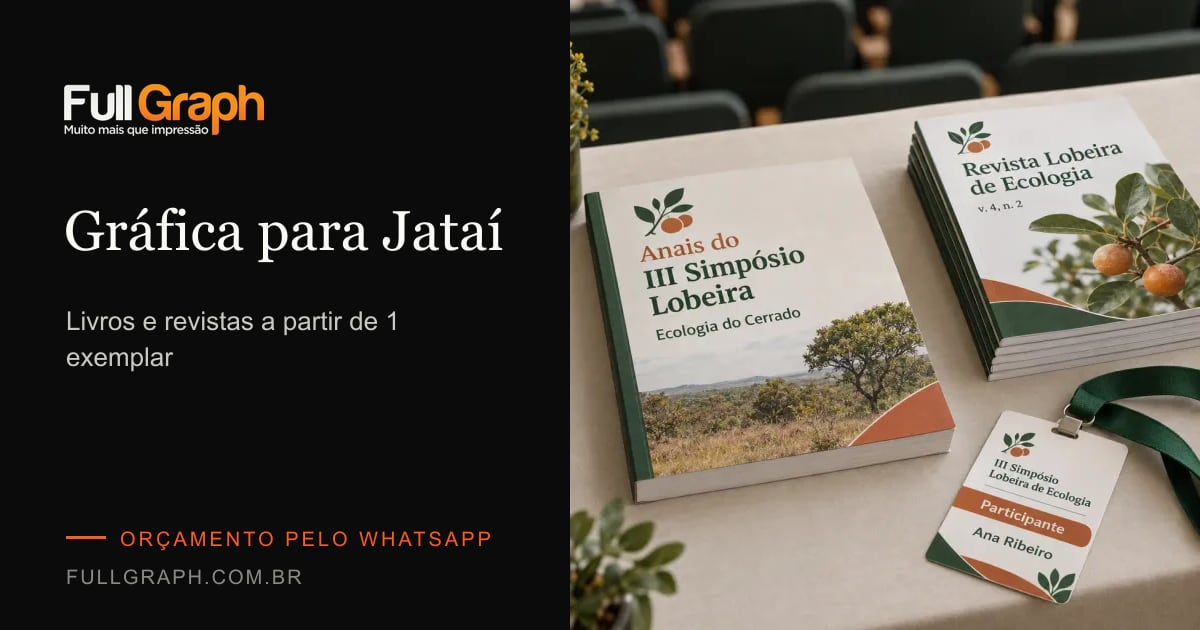
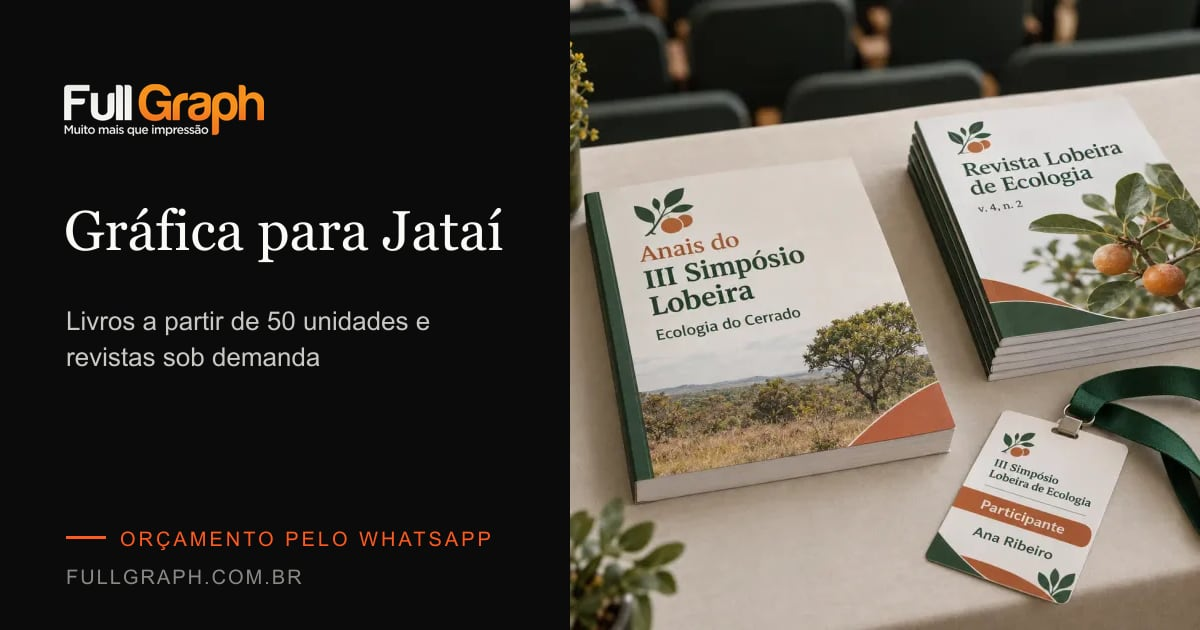
fix: pedido mínimo de livros é 50 unidades
Fato confirmado pelo dono em 10/11/2026 (antes o site dizia
"livros a partir de 1 exemplar"). Revistas seguem a partir de 1
exemplar (N1).

- página de impressão de livros: título, meta, tiragem e FAQ
- Jataí, Itumbiara e Livros/Editorial; llms.txt; imagens OG
- orçamento: faixa "50 a 100" para livros e aviso do mínimo

Changed region(s): [[0.0617, 0.4825, 0.3392, 0.6032]]

diff --git a/src/data/product-content/impressao-de-livros.ts b/src/data/product-content/impressao-de-livros.ts
@@ -6,12 +6,12 @@ import type { ProductContent } from "@/types";
  * aprovação. Fonte única para a UI e para o JSON-LD (FAQPage).
  */
 export const impressaoDeLivrosContent: ProductContent = {
-  metaTitle: "Impressão de livros a partir de 1 exemplar, capa dura e brochura | FullGraph",
+  metaTitle: "Impressão de livros a partir de 50 unidades, capa dura e brochura | FullGraph",
   metaDescription:
     "Impressão de livros sob demanda ou em grandes tiragens: formatos livres, papel pólen, offset ou couché, capa dura, cola PUR e acabamentos especiais. Envio para todo o Brasil.",
-  h1: "Impressão de livros com acabamento editorial, a partir de 1 exemplar",
+  h1: "Impressão de livros com acabamento editorial, a partir de 50 unidades",
   intro: [
-    "A FullGraph faz impressão de livros sob demanda ou em grandes tiragens, com produção própria em Brasília e envio para todo o Brasil. Do exemplar único para o lançamento do autor independente à edição completa de uma editora, cada livro passa pela mesma linha: pré-impressão, impressão, encadernação e acabamento sob o mesmo controle.",
+    "A FullGraph faz impressão de livros sob demanda, a partir de 50 unidades, ou em grandes tiragens, com produção própria em Brasília e envio para todo o Brasil. Do lançamento do autor independente à edição completa de uma editora, cada livro passa pela mesma linha: pré-impressão, impressão, encadernação e acabamento sob o mesmo controle.",
     "Você escolhe formato, papel, encadernação e acabamento de capa. A gente confere o arquivo, envia a prova para aprovação e só então imprime.",
   ],
   introCta: "Pedir orçamento pelo WhatsApp",
@@ -113,7 +113,7 @@ export const impressaoDeLivrosContent: ProductContent = {
       heading: "Sob demanda e grandes tiragens",
       blocks: [
         {
-          p: "Na impressão de livros sob demanda, você imprime a partir de 1 exemplar: serve para prova de autor, lançamento, presente ou reposição de estoque sem encalhe. Em grandes tiragens, a produção mantém o mesmo padrão de cor do primeiro ao último exemplar, no prazo combinado.",
+          p: "Na impressão de livros sob demanda, o pedido mínimo é de 50 unidades: serve para lançamento, edição para um evento ou reposição de estoque. Em grandes tiragens, a produção mantém o mesmo padrão de cor do primeiro ao último exemplar, no prazo combinado.",
         },
       ],
     },
@@ -204,8 +204,8 @@ export const impressaoDeLivrosContent: ProductContent = {
         "Depende do formato, do número de páginas, do papel, das cores, da encadernação, do acabamento e da quantidade. Por isso cada livro recebe orçamento próprio. Solicite pelo WhatsApp ou pelo formulário.",
     },
     {
-      question: "Vocês imprimem só 1 exemplar?",
-      answer: "Sim. A impressão de livros sob demanda começa em 1 exemplar.",
+      question: "Qual é a quantidade mínima para impressão de livros?",
+      answer: "O pedido mínimo para impressão de livros é de 50 unidades.",
     },
     {
       question: "Vocês fazem livro de capa dura?",

diff --git a/src/data/landing-content/grafica-jatai.ts b/src/data/landing-content/grafica-jatai.ts
@@ -9,7 +9,7 @@ import type { PageContent } from "@/types";
 export const graficaJataiContent: PageContent = {
   metaTitle: "Gráfica Jataí (GO): livros, revistas e anais | FullGraph",
   metaDescription:
-    "Gráfica que atende Jataí (GO): livros a partir de 1 exemplar, revistas, anais e materiais de congresso. Entrega em até 1 dia útil após pronto.",
+    "Gráfica que atende Jataí (GO): livros a partir de 50 unidades, revistas, anais e materiais de congresso. Entrega em até 1 dia útil após pronto.",
   h1: "Gráfica para Jataí: livros, revistas e materiais para congressos",
   intro: [
     "Um livro de autor, a próxima edição de uma revista, o material de um simpósio. Para quem pesquisa gráfica Jataí com um desses trabalhos na mão, a FullGraph imprime em Brasília e a encomenda chega à cidade até 1 dia útil depois de pronta.",
@@ -18,7 +18,7 @@ export const graficaJataiContent: PageContent = {
   introCta: "Pedir orçamento para Jataí pelo WhatsApp",
   sections: [
     {
-      heading: "Uma gráfica em Jataí que imprime a partir de 1 exemplar: como funciona?",
+      heading: "Uma gráfica para Jataí com livros a partir de 50 unidades: como funciona?",
       blocks: [
         {
           p: "Ninguém precisa fechar tiragem grande para começar. Quatro regras valem para todo pedido:",
@@ -26,8 +26,8 @@ export const graficaJataiContent: PageContent = {
         {
           ul: [
             [
-              { strong: "Tiragem a partir de 1 exemplar." },
-              " Vale para livros e para revistas.",
+              { strong: "Livros a partir de 50 unidades." },
+              " Revistas a partir de 1 exemplar.",
             ],
             [
               { strong: "Um só lugar de produção." },
@@ -46,7 +46,7 @@ export const graficaJataiContent: PageContent = {
       ],
     },
     {
-      heading: "Livros e revistas a partir de 1 exemplar",
+      heading: "Livros a partir de 50 unidades e revistas a partir de 1 exemplar",
       blocks: [
         {
           p: [
@@ -156,9 +156,9 @@ export const graficaJataiContent: PageContent = {
         "Cada material tem seu prazo de produção, que vem no orçamento; uma revista costuma levar 5 dias úteis. Depois, a entrega em Jataí leva no máximo 1 dia útil.",
     },
     {
-      question: "Dá para imprimir um livro só?",
+      question: "Qual é a quantidade mínima para imprimir livros e revistas?",
       answer:
-        "Sim. Livros e revistas saem a partir de 1 exemplar.",
+        "Livros saem a partir de 50 unidades. Revistas saem a partir de 1 exemplar.",
     },
     {
       question: "Como fica a próxima edição da revista?",

diff --git a/src/components/forms/QuoteWizard.tsx b/src/components/forms/QuoteWizard.tsx
@@ -12,7 +12,7 @@ import {
   segments,
   quoteProducts,
   formatsByProduct,
-  quantities,
+  quantitiesForProduct,
   pageCounts,
   colorOptions,
   materials,
@@ -46,7 +46,12 @@ function buildSteps(produto: string): StepDef[] {
       hint: "Se ainda não sabe, escolha o mais próximo — ajustamos no orçamento.",
       fields: ["formato", "formatoCustom"],
     },
-    { id: "quantidade", title: "Quantas unidades?", fields: ["quantidade"] },
+    {
+      id: "quantidade",
+      title: "Quantas unidades?",
+      hint: produto === "livro" ? "O pedido mínimo para livros é de 50 unidades." : undefined,
+      fields: ["quantidade"],
+    },
   ];
   if (PAGED_PRODUCTS.has(produto))
     steps.push({ id: "paginas", title: "Quantas páginas?", fields: ["paginas"] });
@@ -324,7 +329,7 @@ export function QuoteWizard() {
                       </>
                     )}
                     {step.id === "quantidade" && (
-                      <OptionCards name="quantidade" options={quantities} register={register} error={err("quantidade")} columns={3} />
+                      <OptionCards name="quantidade" options={quantitiesForProduct(values.produto)} register={register} error={err("quantidade")} columns={3} />
                     )}
                     {step.id === "paginas" && (
                       <OptionCards name="paginas" options={pageCounts} register={register} error={err("paginas")} />
@@ -579,7 +584,7 @@ export function QuoteWizard() {
           <p className="sr-only" aria-live="polite">
             {[
               values.produto && optionText(quoteProducts, values.produto),
-              values.quantidade && optionText(quantities, values.quantidade),
+              values.quantidade && optionText(quantitiesForProduct(values.produto), values.quantidade),
               values.material && optionText(materials, values.material),
               values.prazo && optionText(deadlines, values.prazo),
             ]

diff --git a/src/data/landing-content/livros-editorial.ts b/src/data/landing-content/livros-editorial.ts
@@ -125,7 +125,7 @@ export const livrosEditorialContent: PageContent = {
             [{ strong: "Editoras:" }, " lançamentos, reimpressões e reposição de estoque."],
             [
               { strong: "Autores independentes:" },
-              " o livro com acabamento de editora, a partir de 1 exemplar.",
+              " o livro com acabamento de editora, a partir de 50 unidades.",
             ],
             [
               { strong: "Escolas e faculdades:" },
@@ -148,10 +148,10 @@ export const livrosEditorialContent: PageContent = {
       ],
     },
     {
-      heading: "Tiragem: do exemplar único à edição completa",
+      heading: "Tiragem de livros: de 50 unidades à edição completa",
       blocks: [
         {
-          p: "Livros podem ser impressos sob demanda a partir de 1 exemplar. Serve para prova de autor, lançamento, reposição sem encalhe ou edição para um evento. Catálogos também saem em qualquer quantidade.",
+          p: "Livros podem ser impressos sob demanda a partir de 50 unidades. Serve para lançamento, reposição de estoque ou edição para um evento. Catálogos também saem em qualquer quantidade.",
         },
         {
           p: "Nas tiragens maiores, a produção mantém o mesmo padrão de cor do primeiro ao último exemplar. O processo de impressão, offset ou digital, é definido no orçamento, junto com o prazo.",

diff --git a/tests/quote.spec.ts b/tests/quote.spec.ts
@@ -28,7 +28,9 @@ test("fluxo completo do orçamento até o envio", async ({ page }) => {
   await next(page);
 
   // 4. Quantidade
-  await pickOption(page, /500 a 1\.000/);
+  await expect(page.getByRole("radio", { name: "Até 100", exact: true })).toHaveCount(0);
+  await pickOption(page, "50 a 100");
+  await expect(page.getByTestId("quote-mockup")).toContainText("50 a 100 un.");
   await next(page);
 
   // 5. Páginas (aparece porque é livro)
@@ -77,6 +79,7 @@ test("fluxo completo do orçamento até o envio", async ({ page }) => {
   const summary = page.getByTestId("quote-summary");
   await expect(summary).toContainText("Livro ou publicação");
   await expect(summary).toContainText("14 × 21 cm");
+  await expect(summary).toContainText("50 a 100");
   await expect(summary).toContainText("Pólen");
   await expect(summary).toContainText("São Paulo - SP");
 
@@ -88,6 +91,7 @@ test("fluxo completo do orçamento até o envio", async ({ page }) => {
   expect(href!).toMatch(/^(https:\/\/wa\.me\/|mailto:)/);
   // a mensagem carrega o resumo
   expect(decodeURIComponent(href!)).toContain("Pedido de orçamento");
+  expect(decodeURIComponent(href!)).toContain("Quantidade: 50 a 100");
 });
 
 test("validação impede avançar sem escolher", async ({ page }) => {

diff --git a/src/data/products.ts b/src/data/products.ts
@@ -127,7 +127,7 @@ export const products: Product[] = [
     name: "Impressão de livros",
     category: "livros-e-publicacoes",
     audiences: ["livros"],
-    tagline: "Do arquivo fechado ao livro encadernado, em qualquer tiragem.",
+    tagline: "Do arquivo fechado ao livro encadernado, a partir de 50 unidades.",
     description:
       "Impressão de livros para autores, editoras e projetos independentes: miolo em papel offset ou pólen, capa com laminação e encadernação à sua escolha. Acompanhamos o arquivo desde a pré-impressão até o acabamento.",
     applications: [
@@ -156,9 +156,9 @@ export const products: Product[] = [
       "Verniz UV brilho, total ou localizado",
       "Hot stamping",
     ],
-    runRanges: ["A partir de 1 exemplar (sob demanda)", "Grandes tiragens"],
+    runRanges: ["A partir de 50 unidades (sob demanda)", "Grandes tiragens"],
     specs: [
-      { label: "Tiragem", value: "A partir de 1 exemplar (sob demanda)" },
+      { label: "Tiragem", value: "A partir de 50 unidades (sob demanda)" },
       { label: "Encadernação", value: "Capa dura, cola PUR, hot melt, grampo, espiral e wire-o" },
       { label: "Miolo", value: "Em cores ou em preto" },
     ],

diff --git a/src/data/landing-content/grafica-itumbiara.ts b/src/data/landing-content/grafica-itumbiara.ts
@@ -72,7 +72,7 @@ export const graficaItumbiaraContent: PageContent = {
         },
         {
           p: [
-            "Para a foto da turma, o banner é feito sob medida, e um backdrop com o nome do curso fecha o cenário. Se a turma quiser registrar o percurso numa revista ou num livro, a impressão começa em 1 exemplar. Publicações de faculdades e grupos de pesquisa estão na página da ",
+            "Para a foto da turma, o banner é feito sob medida, e um backdrop com o nome do curso fecha o cenário. Se a turma quiser registrar o percurso num livro, a impressão começa em 50 unidades; para revistas, começa em 1 exemplar. Publicações de faculdades e grupos de pesquisa estão na página da ",
             { link: "gráfica em Jataí", href: "/grafica-jatai" },
             ".",
           ],

diff --git a/src/app/llms.txt/route.ts b/src/app/llms.txt/route.ts
@@ -94,7 +94,7 @@ const CITY_PAGES = [
   {
     path: "/grafica-jatai",
     title: "Gráfica para Jataí (GO)",
-    note: "Livros e revistas a partir de 1 exemplar, anais, crachás, pastas e banners para congressos e simpósios, com diagramação, revisão, ficha catalográfica e ISBN junto com a impressão, e entrega em Jataí em até 1 dia útil depois que o pedido fica pronto. Não há loja em Jataí.",
+    note: "Livros a partir de 50 unidades e revistas a partir de 1 exemplar, anais, crachás, pastas e banners para congressos e simpósios, com diagramação, revisão, ficha catalográfica e ISBN junto com a impressão, e entrega em Jataí em até 1 dia útil depois que o pedido fica pronto. Não há loja em Jataí.",
   },
 ] as const;
 

diff --git a/src/components/forms/QuoteMockup.tsx b/src/components/forms/QuoteMockup.tsx
@@ -9,7 +9,7 @@ import {
   formatsByProduct,
   materials,
   pageCounts,
-  quantities,
+  quantitiesForProduct,
   quoteProducts,
   segments,
 } from "@/data/quote";
@@ -99,7 +99,7 @@ export function QuoteMockup(props: QuoteMockupProps) {
   const title = label(quoteProducts, produto) ?? label(segments, segmento) ?? "Monte seu pedido";
   const chips = [
     label(formatsByProduct[produto], formato),
-    label(quantities, quantidade) && `${label(quantities, quantidade)} un.`,
+    label(quantitiesForProduct(produto), quantidade) && `${label(quantitiesForProduct(produto), quantidade)} un.`,
     label(pageCounts, paginas),
     label(colorOptions, cores),
     label(materials, material),

diff --git a/src/lib/quote-submit.ts b/src/lib/quote-submit.ts
@@ -3,7 +3,7 @@ import {
   segments,
   quoteProducts,
   formatsByProduct,
-  quantities,
+  quantitiesForProduct,
   pageCounts,
   colorOptions,
   materials,
@@ -36,7 +36,7 @@ export function buildQuoteSummary(data: QuoteSchema): QuoteSummaryLine[] {
           ? data.formatoCustom
           : optionLabel(formatsByProduct[data.produto] ?? [], data.formato),
     },
-    { label: "Quantidade", value: optionLabel(quantities, data.quantidade) },
+    { label: "Quantidade", value: optionLabel(quantitiesForProduct(data.produto), data.quantidade) },
   ];
   if (data.paginas) lines.push({ label: "Páginas", value: optionLabel(pageCounts, data.paginas) });
   lines.push(

diff --git a/src/data/quote.ts b/src/data/quote.ts
@@ -110,6 +110,14 @@ export const quantities: QuoteOption[] = [
   { value: "20000+", label: "Acima de 20.000" },
 ];
 
+/** A primeira faixa de livros começa no pedido mínimo de 50 unidades. */
+export function quantitiesForProduct(produto: string): QuoteOption[] {
+  if (produto !== "livro") return quantities;
+  return quantities.map((option) =>
+    option.value === "ate-100" ? { ...option, label: "50 a 100" } : option
+  );
+}
+
 export const pageCounts: QuoteOption[] = [
   { value: "ate-48", label: "Até 48 páginas" },
   { value: "48-96", label: "48 a 96" },

diff --git a/src/data/cities.ts b/src/data/cities.ts
@@ -207,7 +207,7 @@ export const cityPages: readonly CityPage[] = [
     path: "/grafica-jatai",
     keyword: "gráfica jataí",
     breadcrumbName: "Gráfica para Jataí",
-    ogTagline: "Livros e revistas a partir de 1 exemplar",
+    ogTagline: "Livros a partir de 50 unidades e revistas sob demanda",
     eyebrow: "Jataí · Goiás",
     image: {
       src: "/images/regions/grafica-jatai.webp",
